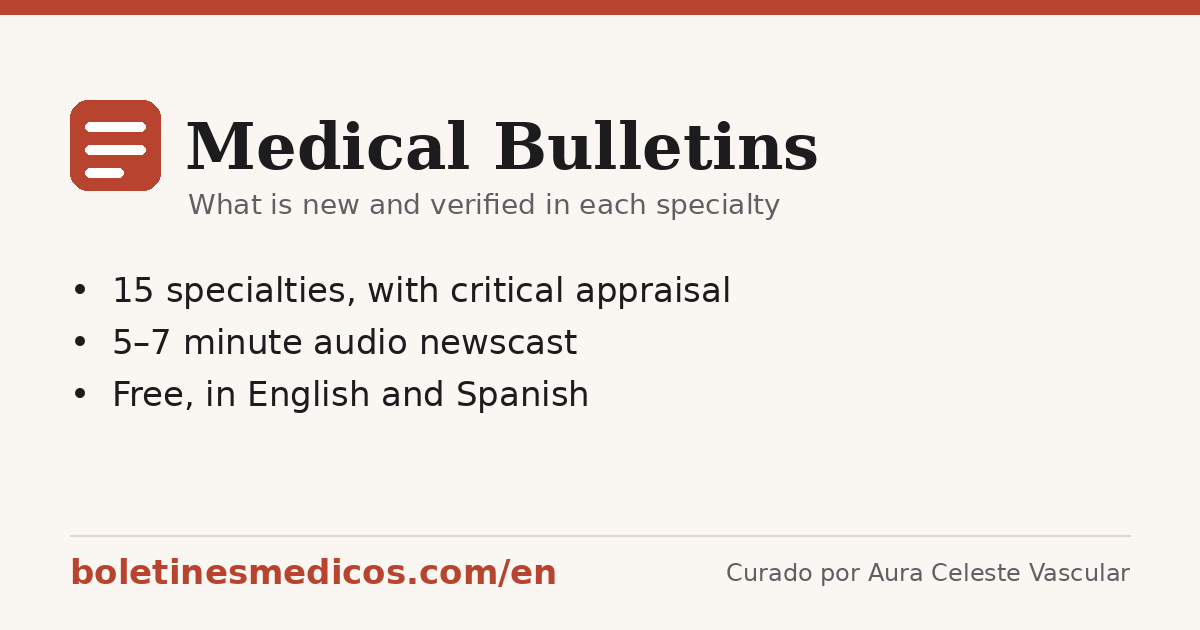
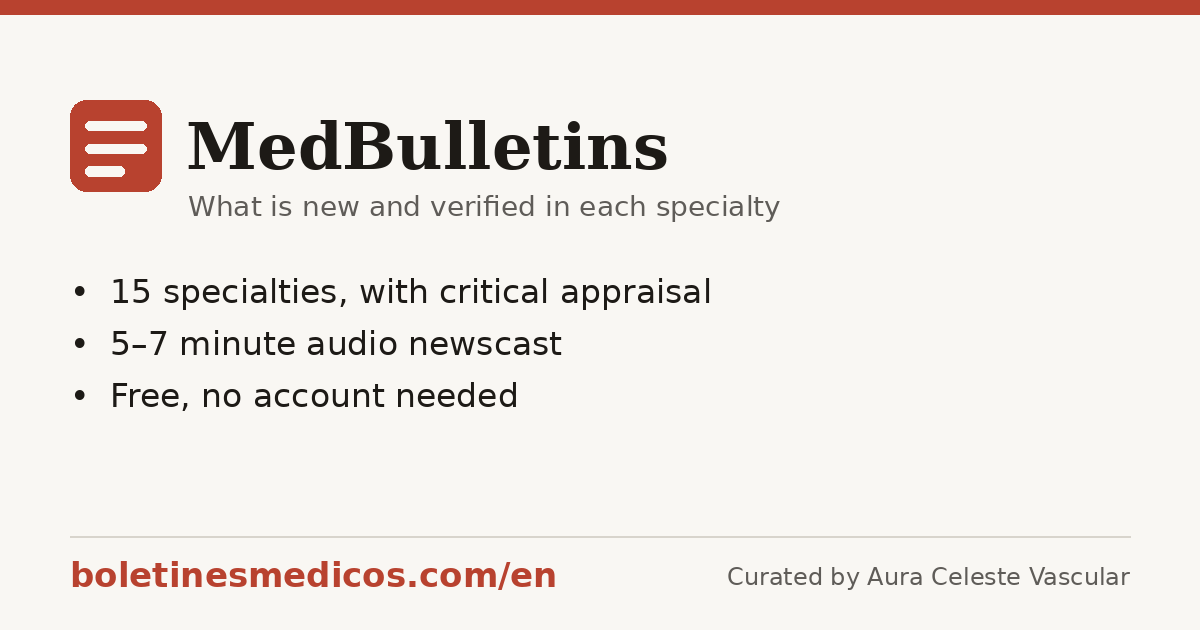
Podcast (ES y EN) para Apple/Spotify/YouTube Music; portadas; og-en con marca MedBulletins
Claude-Session: https://claude.ai/code/session_01Bn8pE811huoZPNTEaki7xg

diff --git a/build.py b/build.py
@@ -452,6 +452,8 @@ def build():
         for it in all_issues[lang]:
             if it["audio"]:
                 shutil.copy2(it["audio"], OUT / "audio" / it["audio"].name)
+    for lang in LANGS:
+        write((OUT if lang == "es" else OUT / "en") / "podcast.xml", podcast_feed(all_issues[lang], lang))
     write(OUT / "sitemap.xml", sitemap(urls))
     write(OUT / "robots.txt", f"User-agent: *\nAllow: /\nSitemap: {SITE_URL}/sitemap.xml\n")
     write(OUT / ".nojekyll", "")
@@ -621,6 +623,52 @@ def rss(items, title, link, lang):
         enc = f'<enclosure url="{SITE_URL}/audio/{i["audio"].name}" length="{i["audio"].stat().st_size}" type="audio/mpeg"/>' if i["audio"] else ""
         out.append(f"<item><title>{e(i['title'])}</title><link>{url}</link><guid>{url}</guid><pubDate>{pub}</pubDate>"
                    f"<description>{e(i['summary'])}</description>{enc}</item>")
+    out.append("</channel></rss>")
+    return "".join(out)
+
+
+PODCAST = {
+    "es": {"title": "Boletines Médicos — noticiero", "cover": "podcast-es.jpg", "lang": "es",
+           "desc": "Noticiero en audio de Boletines Médicos: lo nuevo y verificado en 15 especialidades médicas, con lectura crítica de cada estudio. "
+                   "Material informativo para profesionales. Curado por Aura Celeste Vascular."},
+    "en": {"title": "MedBulletins — audio newscast", "cover": "podcast-en.jpg", "lang": "en-us",
+           "desc": "The MedBulletins audio newscast: what is new and verified across 15 medical specialties, with a critical reading of every study. "
+                   "Informational material for health professionals. Curated by Aura Celeste Vascular."},
+}
+PODCAST_EMAIL = "auracelestevascular@gmail.com"
+
+
+def podcast_feed(items, lang):
+    """Feed de podcast (Apple Podcasts, Spotify, YouTube Music): un episodio por cada número con audio."""
+    P = PODCAST[lang]
+    self_url = f"{base(lang)}/podcast.xml"
+    cover = f"{SITE_URL}/{P['cover']}"
+    out = ['<?xml version="1.0" encoding="UTF-8"?>'
+           '<rss version="2.0" xmlns:itunes="http://www.itunes.com/dtds/podcast-1.0.dtd" '
+           'xmlns:atom="http://www.w3.org/2005/Atom" xmlns:podcast="https://podcastindex.org/namespace/1.0"><channel>',
+           f'<title>{e(P["title"])}</title><link>{base(lang)}/</link><language>{P["lang"]}</language>',
+           f'<atom:link href="{self_url}" rel="self" type="application/rss+xml"/>',
+           f'<description>{e(P["desc"])}</description><itunes:summary>{e(P["desc"])}</itunes:summary>',
+           '<itunes:author>Aura Celeste Vascular</itunes:author>',
+           f'<itunes:owner><itunes:name>Aura Celeste Vascular</itunes:name><itunes:email>{PODCAST_EMAIL}</itunes:email></itunes:owner>',
+           f'<itunes:image href="{cover}"/><image><url>{cover}</url><title>{e(P["title"])}</title><link>{base(lang)}/</link></image>',
+           '<itunes:category text="Health &amp; Fitness"><itunes:category text="Medicine"/></itunes:category>',
+           '<itunes:category text="Science"/>',
+           '<itunes:explicit>false</itunes:explicit><itunes:type>episodic</itunes:type>',
+           f'<copyright>Aura Celeste Vascular</copyright><podcast:locked>no</podcast:locked>']
+    for i in items:
+        if not i["audio"]:
+            continue
+        url = issue_url(i)
+        size = i["audio"].stat().st_size
+        secs = int(float(i["audio_minutes"]) * 60) if i.get("audio_minutes") else int(size * 8 / 48000)
+        pub = datetime.combine(i["date"], datetime.min.time(), tzinfo=timezone.utc).strftime("%a, %d %b %Y 11:30:00 +0000")
+        desc = f"{i['summary']} {url}"
+        out.append(f"<item><title>{e(i['title'])}</title><link>{url}</link><guid isPermaLink=\"false\">{i['audio'].name}</guid>"
+                   f"<pubDate>{pub}</pubDate><description>{e(desc)}</description><itunes:summary>{e(desc)}</itunes:summary>"
+                   f'<enclosure url="{SITE_URL}/audio/{i["audio"].name}" length="{size}" type="audio/mpeg"/>'
+                   f"<itunes:duration>{secs}</itunes:duration><itunes:explicit>false</itunes:explicit>"
+                   f"<itunes:episodeType>full</itunes:episodeType></item>")
     out.append("</channel></rss>")
     return "".join(out)
 

diff --git a/tools/imagenes.py b/tools/imagenes.py
@@ -1,0 +1,68 @@
+#!/usr/bin/env python3
+"""Genera las imágenes de marca: og-en.png (vista previa en redes) y las portadas del podcast (3000x3000)."""
+from pathlib import Path
+from PIL import Image, ImageDraw, ImageFont
+
+ROOT = Path(__file__).resolve().parent.parent
+BG, INK, INK2, ACC, LINE = (249, 247, 243), (29, 26, 22), (95, 92, 88), (184, 66, 47), (216, 212, 204)
+SERIF = "/usr/share/fonts/truetype/dejavu/DejaVuSerif-Bold.ttf"
+SANS = "/usr/share/fonts/truetype/dejavu/DejaVuSans.ttf"
+SANSB = "/usr/share/fonts/truetype/dejavu/DejaVuSans-Bold.ttf"
+
+
+def f(path, size):
+    return ImageFont.truetype(path, size)
+
+
+def logo(d, x, y, s):
+    d.rounded_rectangle([x, y, x + s, y + s], radius=s * 0.18, fill=ACC)
+    h = s * 0.1
+    for i, w in enumerate((0.66, 0.66, 0.42)):
+        yy = y + s * (0.28 + i * 0.25)
+        d.rounded_rectangle([x + s * 0.17, yy - h / 2, x + s * (0.17 + w), yy + h / 2], radius=h / 2, fill=BG)
+
+
+def og(name, title, tagline, bullets, url, credit):
+    W, H = 1200, 630
+    im = Image.new("RGB", (W, H), BG)
+    d = ImageDraw.Draw(im)
+    d.rectangle([0, 0, W, 14], fill=ACC)
+    logo(d, 70, 100, 91)
+    d.text((186, 108), title, font=f(SERIF, 64), fill=INK)
+    d.text((188, 190), tagline, font=f(SANS, 28), fill=INK2)
+    for i, b in enumerate(bullets):
+        d.text((70, 272 + i * 52), "•  " + b, font=f(SANS, 33), fill=INK)
+    d.line([70, 536, 1130, 536], fill=LINE, width=2)
+    d.text((70, 555), url, font=f(SANSB, 34), fill=ACC)
+    cw = d.textlength(credit, font=f(SANS, 24))
+    d.text((1130 - cw, 562), credit, font=f(SANS, 24), fill=INK2)
+    im.save(ROOT / "static" / name, optimize=True)
+
+
+def cover(name, title, lines, credit):
+    S = 3000
+    im = Image.new("RGB", (S, S), BG)
+    d = ImageDraw.Draw(im)
+    d.rectangle([0, 0, S, 60], fill=ACC)
+    logo(d, 1200, 420, 600)
+    ft = f(SERIF, 300 if len(title) < 14 else 250)
+    tw = d.textlength(title, font=ft)
+    d.text(((S - tw) / 2, 1200), title, font=ft, fill=INK)
+    for i, ln in enumerate(lines):
+        fl = f(SANS, 140)
+        lw = d.textlength(ln, font=fl)
+        d.text(((S - lw) / 2, 1700 + i * 210), ln, font=fl, fill=INK2)
+    fc = f(SANSB, 120)
+    cw = d.textlength(credit, font=fc)
+    d.text(((S - cw) / 2, 2600), credit, font=fc, fill=ACC)
+    im.convert("RGB").save(ROOT / "static" / name, quality=88)
+
+
+og("og-en.png", "MedBulletins", "What is new and verified in each specialty",
+   ["15 specialties, with critical appraisal", "5–7 minute audio newscast", "Free, no account needed"],
+   "boletinesmedicos.com/en", "Curated by Aura Celeste Vascular")
+cover("podcast-en.jpg", "MedBulletins", ["Verified medical updates", "15 specialties · audio newscast"],
+      "Curated by Aura Celeste Vascular")
+cover("podcast-es.jpg", "Boletines Médicos", ["Actualización médica verificada", "15 especialidades · noticiero"],
+      "Curado por Aura Celeste Vascular")
+print("ok")
